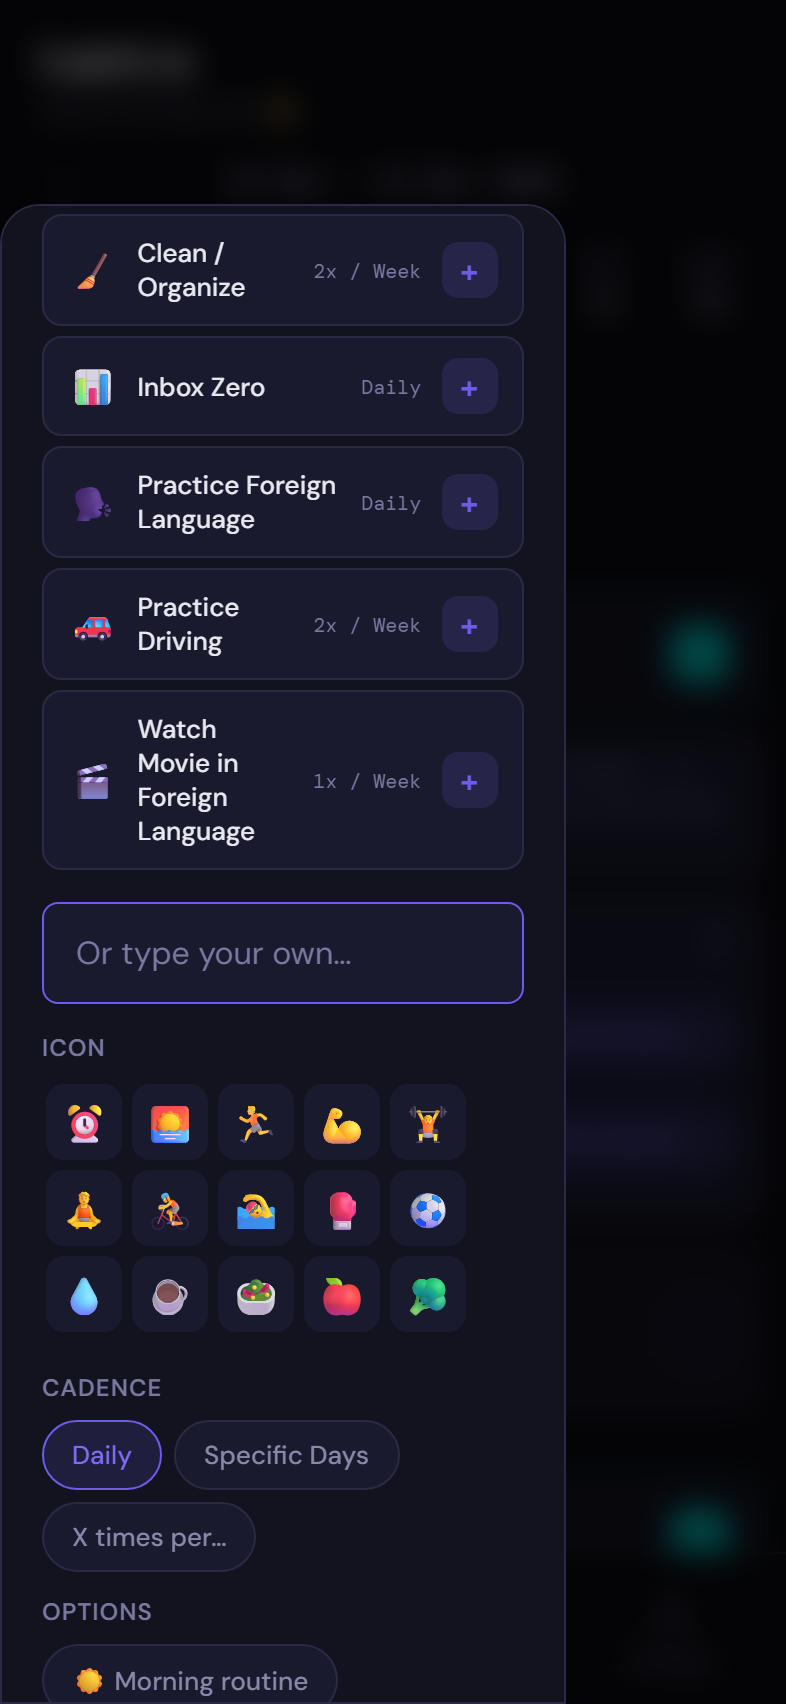
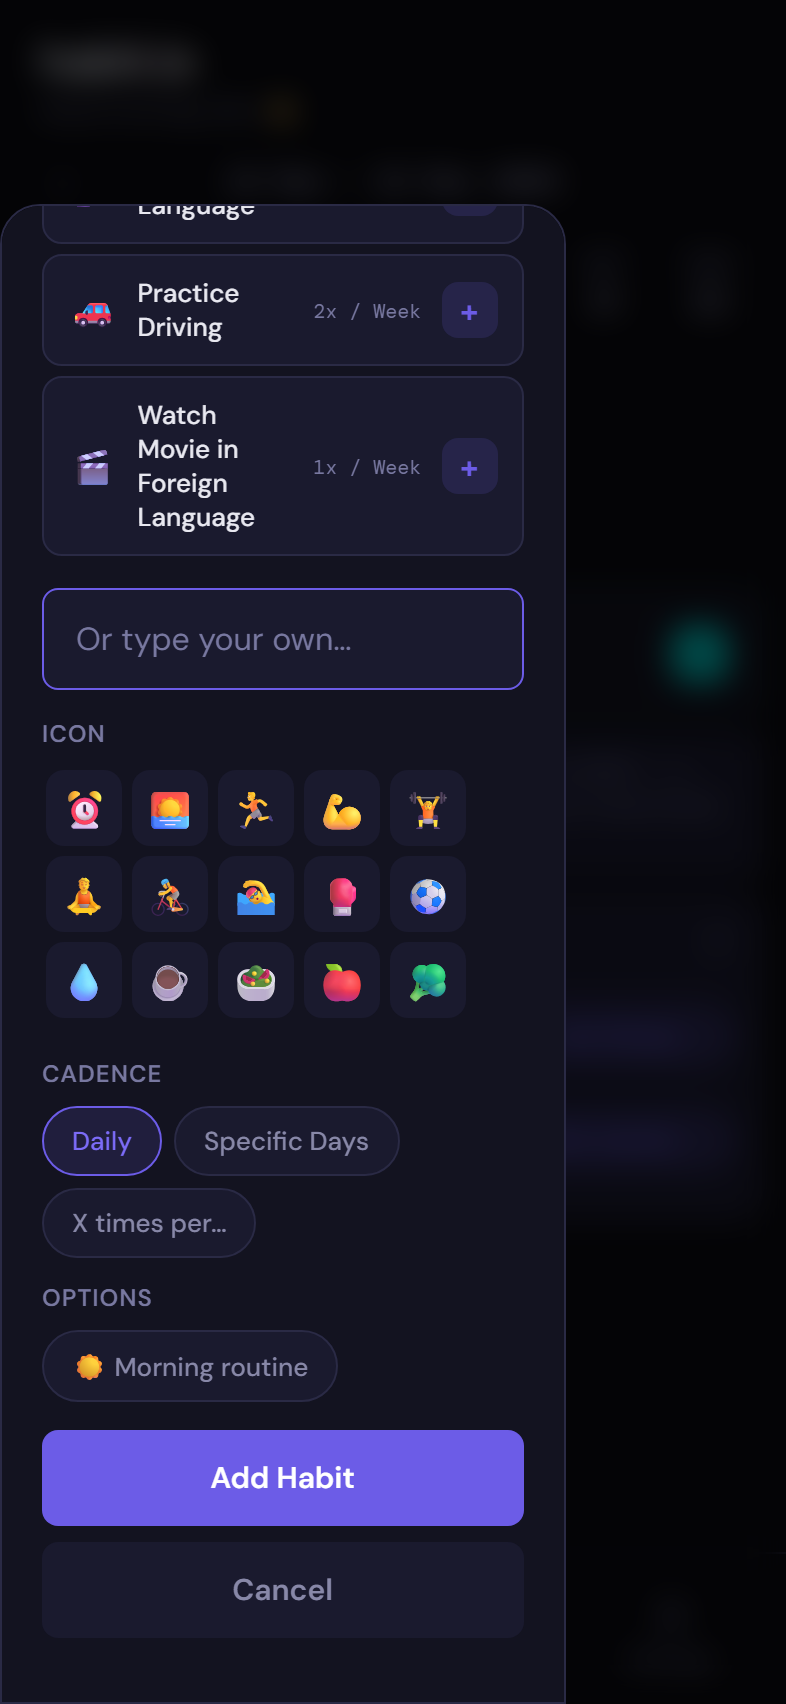
fix: habits-scroll bottom padding for FAB clearance; fix add-habit screenshot
- habits-scroll padding-bottom: 80px so last habit isn't hidden behind FAB
- screenshot-add-habit.png: seed 1 habit (FAB visible), scroll modal to CTA

diff --git a/scripts/take-screenshots.js b/scripts/take-screenshots.js
@@ -101,12 +101,19 @@ async function main() {
     await mobile.waitForTimeout(400);
     await mobile.screenshot({ path: path.join(DOCS_DIR, 'screenshot-tracker.png') });
 
-    // 3. Add-habit modal open — click FAB
+    // 3. Add-habit modal open — 1 habit seeded so FAB is visible, modal scrolled to CTA
     console.log('  screenshot-add-habit.png');
-    await loadWithState(mobile, SEED_STATE);
+    const stateOneHabit = { ...SEED_STATE, habits: [SEED_STATE.habits[0]] };
+    await loadWithState(mobile, stateOneHabit);
     await mobile.click('#fab-add');
     await mobile.waitForSelector('#add-modal.show', { timeout: 3000 }).catch(() => {});
-    await mobile.waitForTimeout(600);
+    await mobile.waitForTimeout(400);
+    // Scroll the modal to the bottom so the Save CTA button is visible
+    await mobile.evaluate(() => {
+      const modal = document.querySelector('#add-modal .modal');
+      if (modal) modal.scrollTop = modal.scrollHeight;
+    });
+    await mobile.waitForTimeout(300);
     await mobile.screenshot({ path: path.join(DOCS_DIR, 'screenshot-add-habit.png') });
 
     // 4. Journal step 1 (gratitude prompt) — no diary data today

diff --git a/styles.css b/styles.css
@@ -233,7 +233,7 @@
       .habits-scroll {
         flex: 1;
         overflow-y: auto;
-        padding: 0 12px 8px;
+        padding: 0 12px 80px;
         -webkit-overflow-scrolling: touch;
       }
       .habit-card {
@@ -1810,7 +1810,7 @@
 
         /* ── Habit cards: 2-column grid ── */
         .habits-scroll {
-          padding: 0 32px 16px;
+          padding: 0 32px 80px;
           display: grid;
           grid-template-columns: repeat(2, 1fr);
           gap: 8px;
